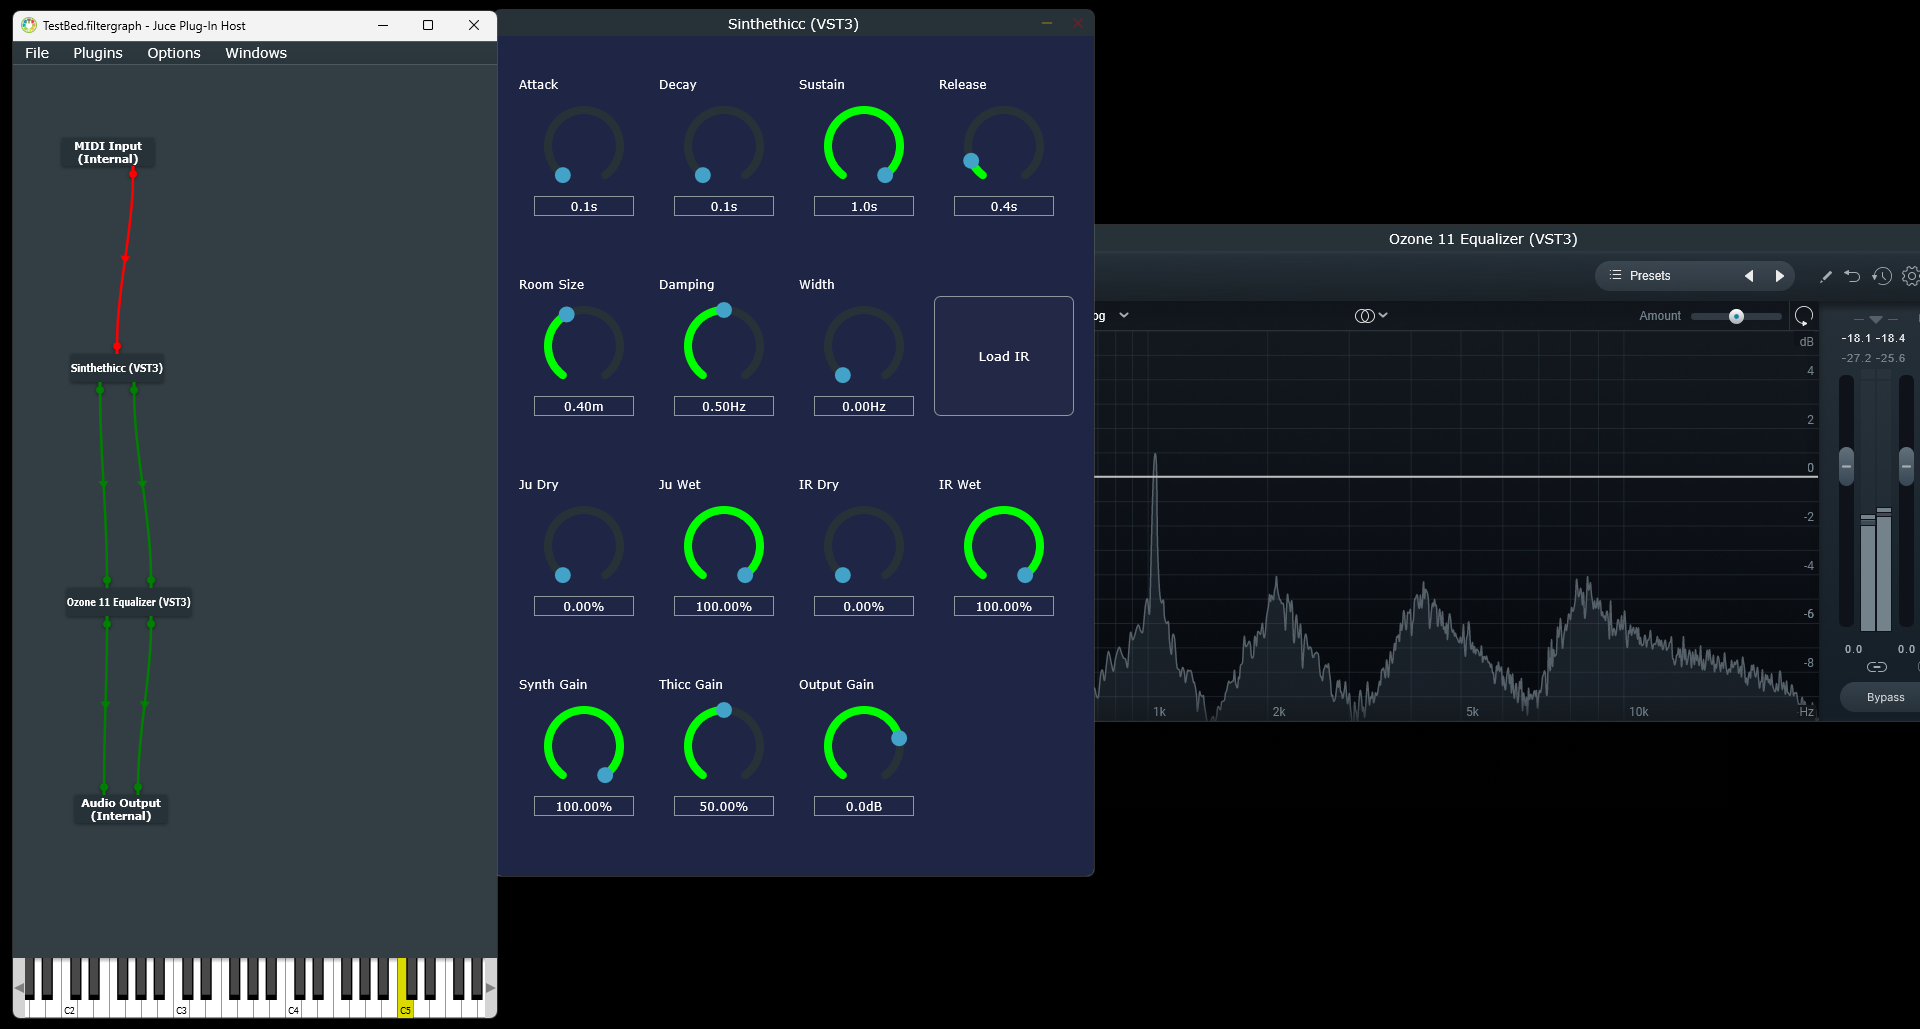
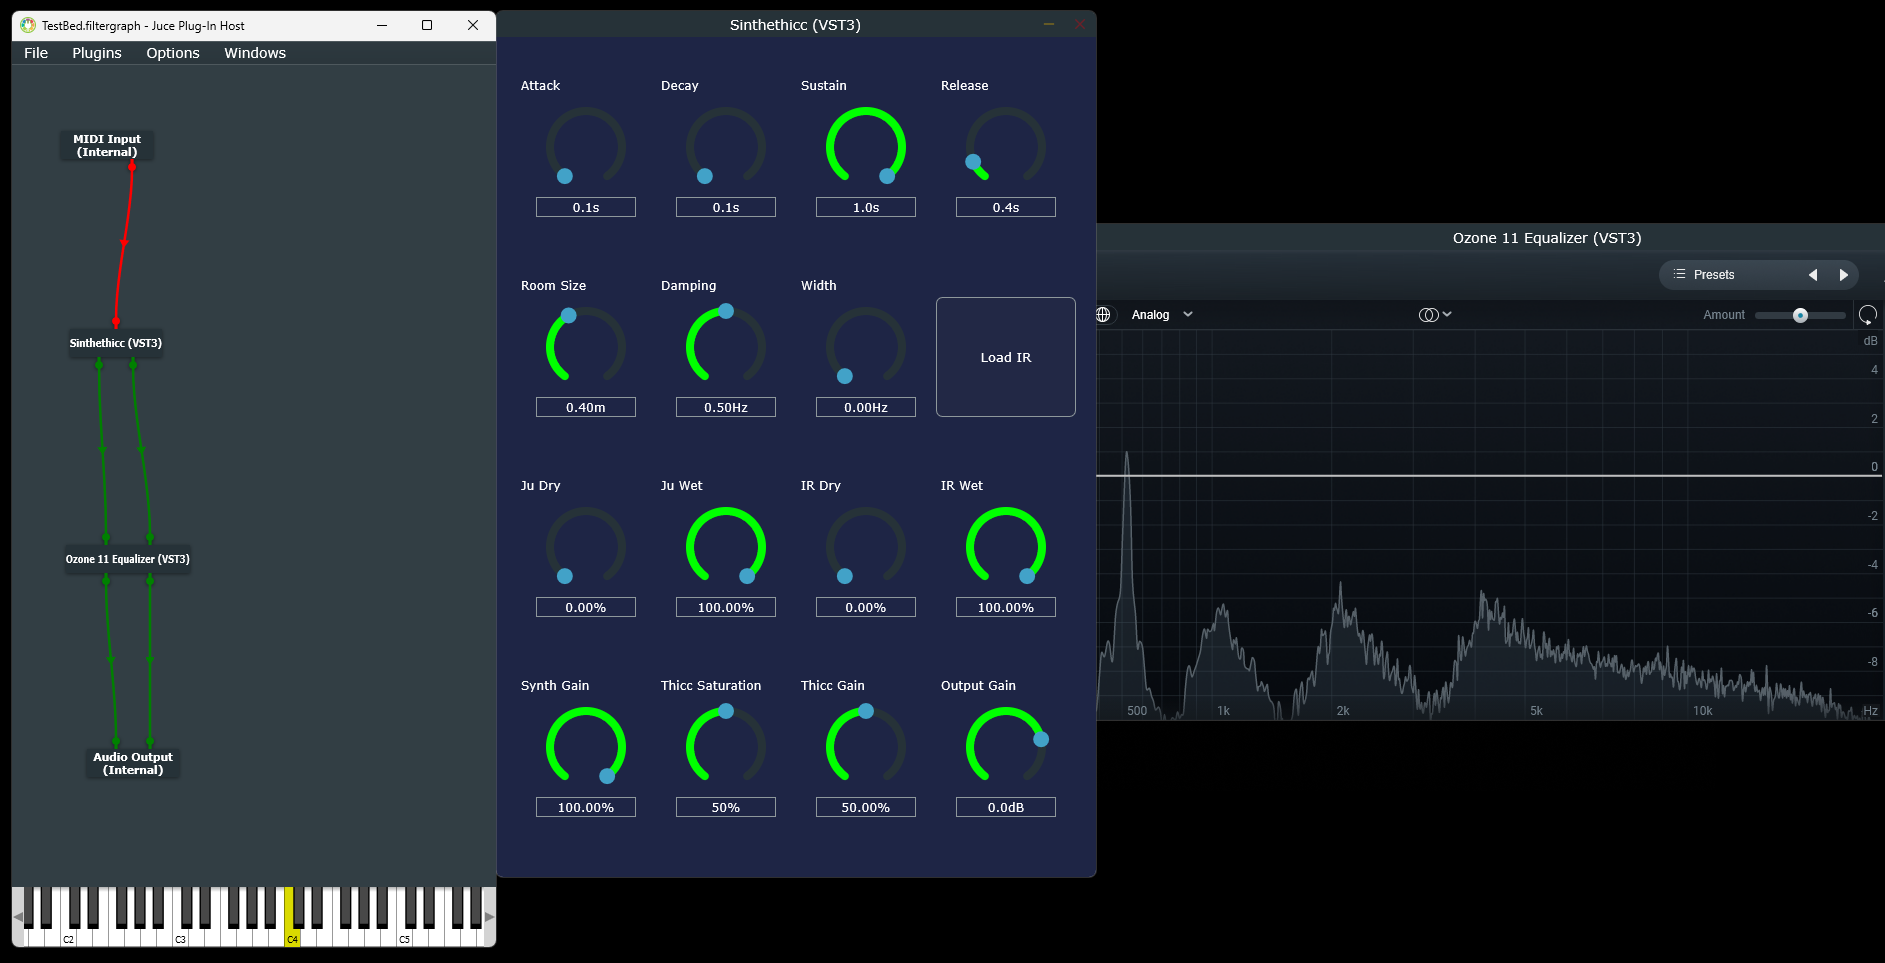
Saturation control

diff --git a/Source/PluginEditor.cpp b/Source/PluginEditor.cpp
@@ -16,6 +16,7 @@ SinthethiccAudioProcessorEditor::SinthethiccAudioProcessorEditor (SinthethiccAud
 	irDrySlider.setSliderStyle(juce::Slider::SliderStyle::RotaryVerticalDrag);
 	irWetSlider.setSliderStyle(juce::Slider::SliderStyle::RotaryVerticalDrag);
 	synthGainSlider.setSliderStyle(juce::Slider::SliderStyle::RotaryVerticalDrag);
+	saturationSlider.setSliderStyle(juce::Slider::SliderStyle::RotaryVerticalDrag);
 	thiccGainSlider.setSliderStyle(juce::Slider::SliderStyle::RotaryVerticalDrag);
 	outputGainSlider.setSliderStyle(juce::Slider::SliderStyle::RotaryVerticalDrag);
 
@@ -31,6 +32,7 @@ SinthethiccAudioProcessorEditor::SinthethiccAudioProcessorEditor (SinthethiccAud
 	irDrySlider.setColour(juce::Slider::rotarySliderFillColourId, juce::Colours::lime);
 	irWetSlider.setColour(juce::Slider::rotarySliderFillColourId, juce::Colours::lime);
 	synthGainSlider.setColour(juce::Slider::rotarySliderFillColourId, juce::Colours::lime);
+	saturationSlider.setColour(juce::Slider::rotarySliderFillColourId, juce::Colours::lime);
 	thiccGainSlider.setColour(juce::Slider::rotarySliderFillColourId, juce::Colours::lime);
 	outputGainSlider.setColour(juce::Slider::rotarySliderFillColourId, juce::Colours::lime);
 
@@ -63,6 +65,7 @@ SinthethiccAudioProcessorEditor::SinthethiccAudioProcessorEditor (SinthethiccAud
 	irDrySlider.setTextBoxStyle(juce::Slider::TextBoxBelow, false, 100, 20);
 	irWetSlider.setTextBoxStyle(juce::Slider::TextBoxBelow, false, 100, 20);
 	synthGainSlider.setTextBoxStyle(juce::Slider::TextBoxBelow, false, 100, 20);
+	saturationSlider.setTextBoxStyle(juce::Slider::TextBoxBelow, false, 100, 20);
 	thiccGainSlider.setTextBoxStyle(juce::Slider::TextBoxBelow, false, 100, 20);
 	outputGainSlider.setTextBoxStyle(juce::Slider::TextBoxBelow, false, 100, 20);
 
@@ -78,6 +81,7 @@ SinthethiccAudioProcessorEditor::SinthethiccAudioProcessorEditor (SinthethiccAud
 	irDrySlider.setTextValueSuffix("%");
 	irWetSlider.setTextValueSuffix("%");
 	synthGainSlider.setTextValueSuffix("%");
+	saturationSlider.setTextValueSuffix("%");
 	thiccGainSlider.setTextValueSuffix("%");
 	outputGainSlider.setTextValueSuffix("dB");
 
@@ -96,6 +100,7 @@ SinthethiccAudioProcessorEditor::SinthethiccAudioProcessorEditor (SinthethiccAud
 	irDryLabel.setText("IR Dry", juce::dontSendNotification);
 	irWetLabel.setText("IR Wet", juce::dontSendNotification);
 	synthGainLabel.setText("Synth Gain", juce::dontSendNotification);
+	saturationLabel.setText("Thicc Saturation", juce::dontSendNotification);
 	thiccGainLabel.setText("Thicc Gain", juce::dontSendNotification);
 	outputGainLabel.setText("Output Gain", juce::dontSendNotification);
 
@@ -111,6 +116,7 @@ SinthethiccAudioProcessorEditor::SinthethiccAudioProcessorEditor (SinthethiccAud
 	irDryLabel.attachToComponent(&irDrySlider, false);
 	irWetLabel.attachToComponent(&irWetSlider, false);
 	synthGainLabel.attachToComponent(&synthGainSlider, false);
+	saturationLabel.attachToComponent(&saturationSlider, false);
 	thiccGainLabel.attachToComponent(&thiccGainSlider, false);
 	outputGainLabel.attachToComponent(&outputGainSlider, false);
 
@@ -129,6 +135,7 @@ SinthethiccAudioProcessorEditor::SinthethiccAudioProcessorEditor (SinthethiccAud
 	addAndMakeVisible(irDrySlider);
 	addAndMakeVisible(irWetSlider);
 	addAndMakeVisible(synthGainSlider);
+	addAndMakeVisible(saturationSlider);
 	addAndMakeVisible(thiccGainSlider);
 	addAndMakeVisible(outputGainSlider);
 
@@ -145,6 +152,7 @@ SinthethiccAudioProcessorEditor::SinthethiccAudioProcessorEditor (SinthethiccAud
 	irDrySliderAttachment = std::make_unique<juce::AudioProcessorValueTreeState::SliderAttachment>(audioProcessor.apvts, "IR_DRY", irDrySlider);
 	irWetSliderAttachment = std::make_unique<juce::AudioProcessorValueTreeState::SliderAttachment>(audioProcessor.apvts, "IR_WET", irWetSlider);
 	synthGainSliderAttachment = std::make_unique<juce::AudioProcessorValueTreeState::SliderAttachment>(audioProcessor.apvts, "SYNTH_GAIN", synthGainSlider);
+	saturationSliderAttachment = std::make_unique<juce::AudioProcessorValueTreeState::SliderAttachment>(audioProcessor.apvts, "THICC_SATURATION", saturationSlider);
 	thiccGainSliderAttachment = std::make_unique<juce::AudioProcessorValueTreeState::SliderAttachment>(audioProcessor.apvts, "THICC_GAIN", thiccGainSlider);
 	outputGainSliderAttachment = std::make_unique<juce::AudioProcessorValueTreeState::SliderAttachment>(audioProcessor.apvts, "OUTPUT_GAIN", outputGainSlider);
 
@@ -190,6 +198,7 @@ void SinthethiccAudioProcessorEditor::resized()
 
 	auto row4 = area.removeFromTop(sliderHeight + labelHeight);
 	synthGainSlider.setBounds(row4.removeFromLeft(sliderWidth).reduced(0, labelHeight));
+	saturationSlider.setBounds(row4.removeFromLeft(sliderWidth).reduced(0, labelHeight));
 	thiccGainSlider.setBounds(row4.removeFromLeft(sliderWidth).reduced(0, labelHeight));
 	outputGainSlider.setBounds(row4.removeFromLeft(sliderWidth).reduced(0, labelHeight));
 }

diff --git a/Source/PluginProcessor.cpp b/Source/PluginProcessor.cpp
@@ -211,6 +211,8 @@ juce::AudioProcessorValueTreeState::ParameterLayout SinthethiccAudioProcessor::c
     params.push_back(std::make_unique<juce::AudioParameterFloat>("SYNTH_GAIN", "Synth Dry", 0.0f, 100.0f, 100.0f));
     params.push_back(std::make_unique<juce::AudioParameterFloat>("THICC_GAIN", "Thicc Wet", 0.0f, 100.0f, 50.0f));
 
+    params.push_back(std::make_unique<juce::AudioParameterFloat>("THICC_SATURATION", "Thicc Saturation", juce::NormalisableRange<float> { 0.0f, 100.0f, 1.f }, 50.f));
+
     params.push_back(std::make_unique<juce::AudioParameterFloat>("OUTPUT_GAIN", "Output Level", juce::NormalisableRange<float> { -60.0f, 18.0f, 0.1f }, 0.f, "dB"));
 
     return { params.begin(), params.end() };
@@ -242,6 +244,7 @@ void SinthethiccAudioProcessor::setParameters()
 
 	float synthGain = *apvts.getRawParameterValue("SYNTH_GAIN");
 	float thiccGain = *apvts.getRawParameterValue("THICC_GAIN");
+	float thiccSaturationPercent = *apvts.getRawParameterValue("THICC_SATURATION");
 
     float gain = *apvts.getRawParameterValue("OUTPUT_GAIN");
     for (int i = 0; i < synth.getNumVoices(); ++i)
@@ -260,6 +263,7 @@ void SinthethiccAudioProcessor::setParameters()
 				irDry,
 				irWet,
 				synthGain,
+                thiccSaturationPercent,
 				thiccGain,
                 gain
                 );

diff --git a/Source/Dependencies/SynthVoice.cpp b/Source/Dependencies/SynthVoice.cpp
@@ -78,6 +78,7 @@ void SynthVoice::setParameters(
 		float irDry,
 		float irWet,
 		float synth_gain,
+		float thicc_saturation_percent,
 		float thicc_gain,
 		float output_gain
 		)
@@ -87,6 +88,7 @@ void SynthVoice::setParameters(
 	juVerb.setParameters(juverbSize, juverbDamping, juverbWidth, juverbFreeze, juverbDry/100, juverbWet/100);
 	conv.setParameters(irDry, irWet);
 	synthDryGain.setGainLinear(synth_gain/100.);
+	saturationThreshold = 1.0f - thicc_saturation_percent / 200.0f;
 	thiccGain.setGainLinear(thicc_gain/100.);
 	outputGain.setGainDecibels(output_gain);
 }
@@ -171,7 +173,13 @@ void SynthVoice::renderNextBlock(juce::AudioBuffer<float>& outputBuffer, int sta
 		auto* thiccBufferPtr = thiccBuffer.getWritePointer(ch);
 		for (int s = 0; s < thiccBuffer.getNumSamples(); ++s)
 		{
-			thiccBufferPtr[s] = std::tanh(thiccBufferPtr[s]);
+			// simple assymetric saturation
+			saturationThreshold = juce::jlimit(0.5f, 1.0f, saturationThreshold);
+			if (thiccBufferPtr[s] > saturationThreshold)
+			{
+				thiccBufferPtr[s] = saturationThreshold;
+				//thiccBufferPtr[s] = saturationThreshold + (thiccBufferPtr[s] - saturationThreshold) / (1.0f + std::abs(thiccBufferPtr[s]));
+			}
 		}
 	}
 

diff --git a/Source/PluginEditor.h b/Source/PluginEditor.h
@@ -56,12 +56,15 @@ private:
 	std::unique_ptr<juce::AudioProcessorValueTreeState::SliderAttachment> irWetSliderAttachment;
 	
 	juce::Slider synthGainSlider;
+	juce::Slider saturationSlider;
 	juce::Slider thiccGainSlider;
 	juce::Slider outputGainSlider;
 	juce::Label synthGainLabel;
+	juce::Label saturationLabel;
 	juce::Label thiccGainLabel;
 	juce::Label outputGainLabel;
 	std::unique_ptr<juce::AudioProcessorValueTreeState::SliderAttachment> synthGainSliderAttachment;
+	std::unique_ptr<juce::AudioProcessorValueTreeState::SliderAttachment> saturationSliderAttachment;
 	std::unique_ptr<juce::AudioProcessorValueTreeState::SliderAttachment> thiccGainSliderAttachment;
 	std::unique_ptr<juce::AudioProcessorValueTreeState::SliderAttachment> outputGainSliderAttachment;
 

diff --git a/Source/Dependencies/SynthVoice.h b/Source/Dependencies/SynthVoice.h
@@ -26,6 +26,7 @@ public:
 		float irDry,
 		float irWet,
 		float synth_gain,
+		float thicc_saturation_percent,
 		float thicc_gain,
 		float output_gain
 		);
@@ -52,6 +53,7 @@ private:
 	juce::dsp::Gain<float> synthDryGain;
 
 	juce::AudioBuffer<float> thiccBuffer;
+	float saturationThreshold = 0.5f;
 
 	juce::ADSR filterAdsr;
 	juce::ADSR::Parameters filterAdsrParameters;
